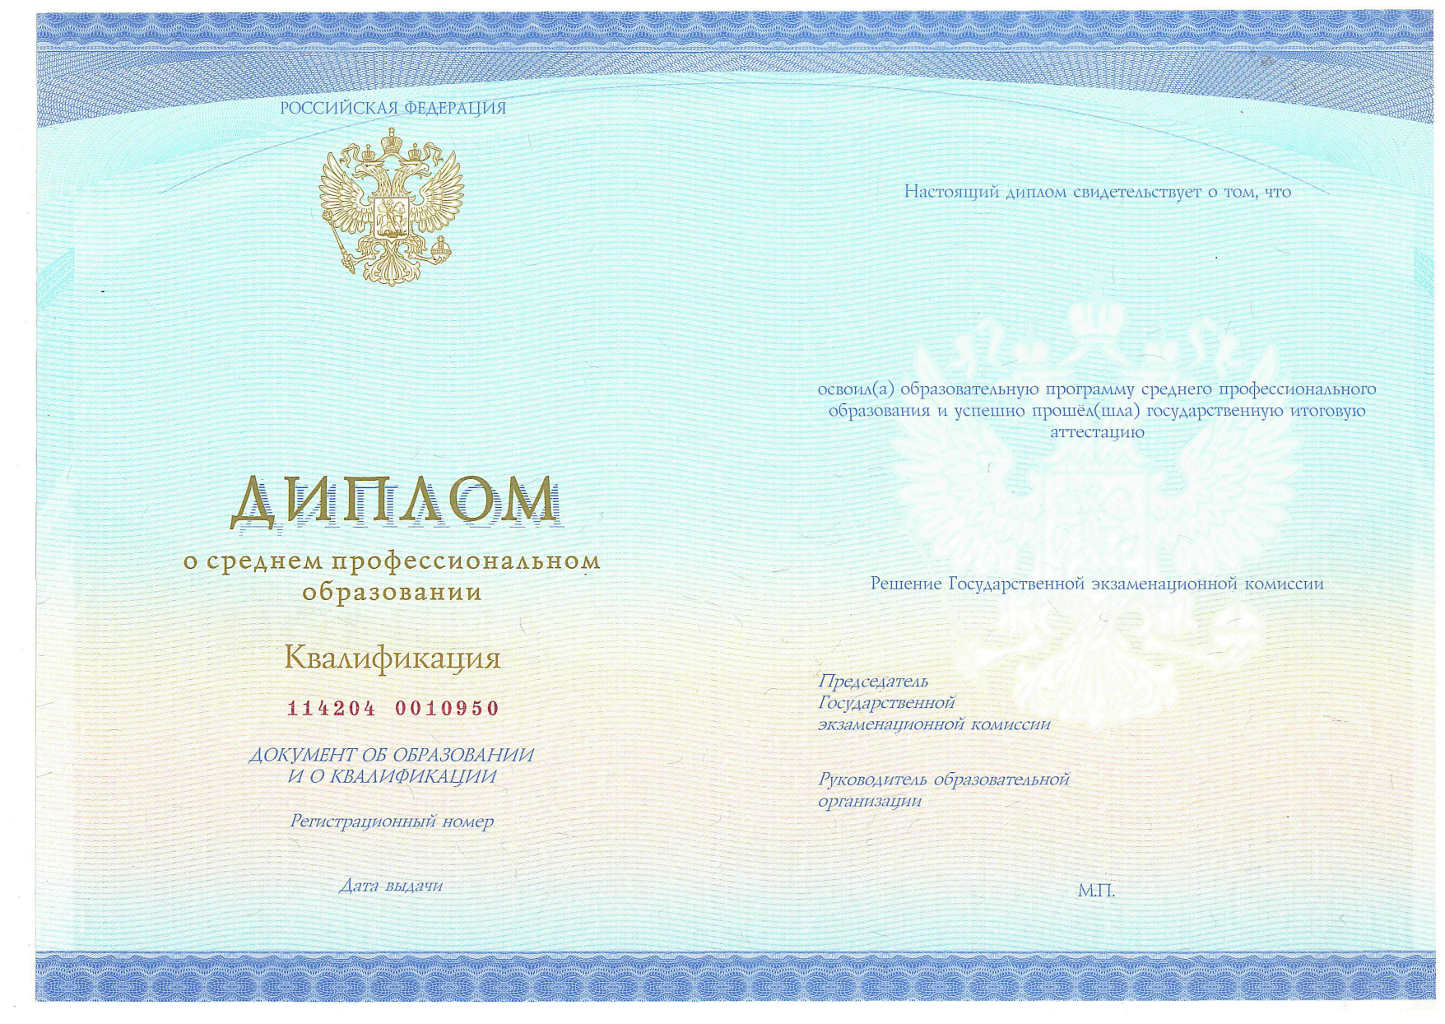
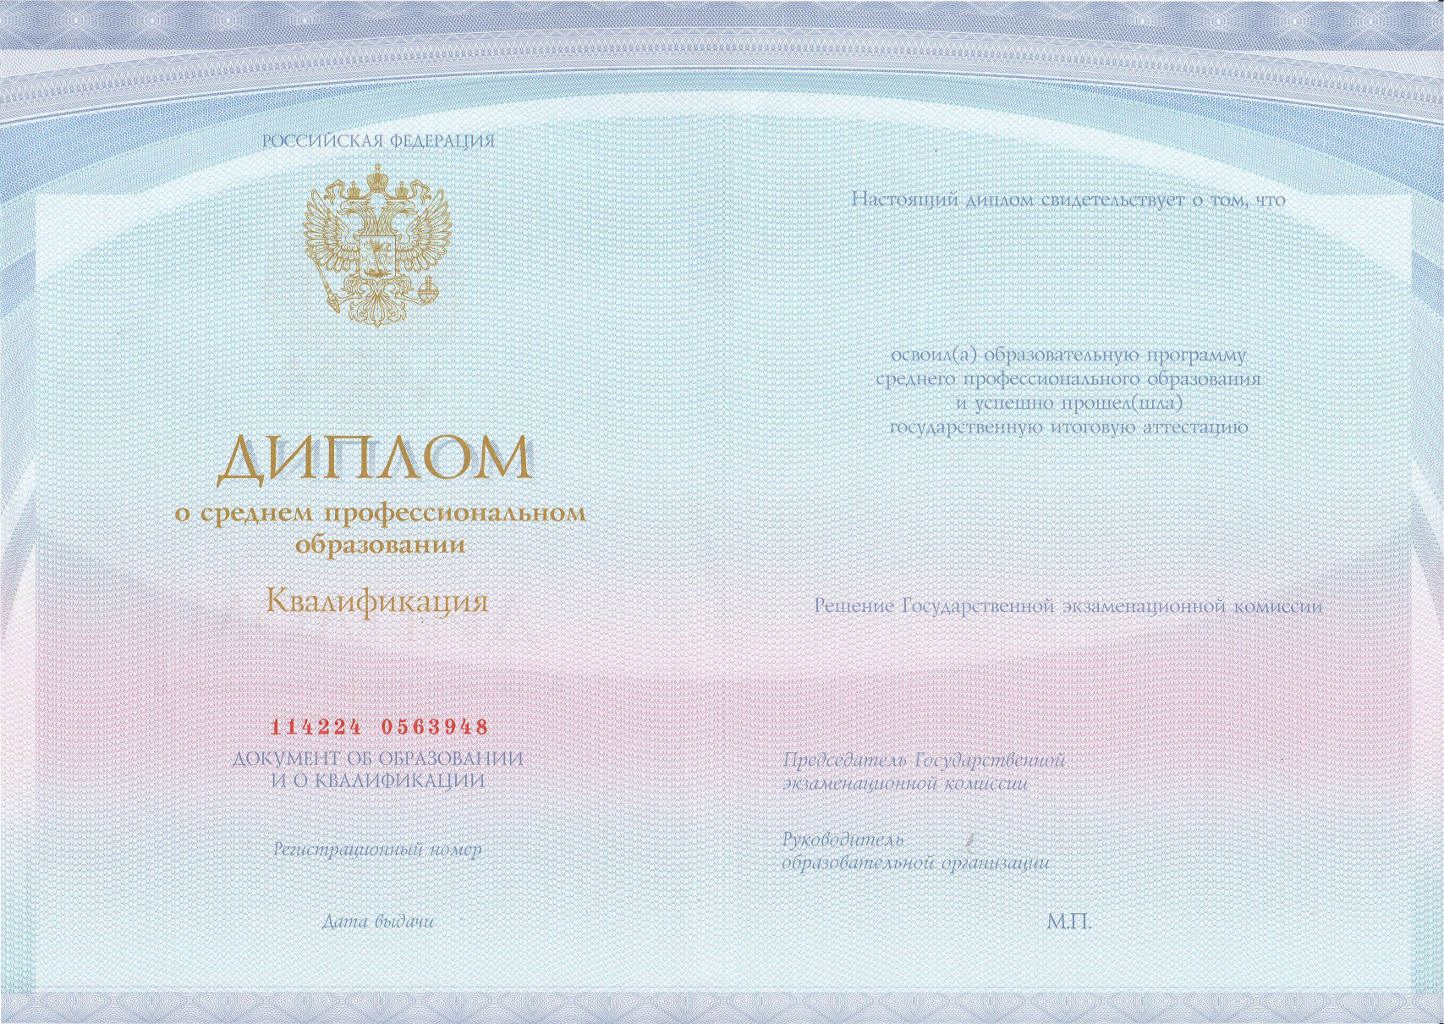
Немного исправлена разметка для бланка диплома. Изменены картинки на подложке.

diff --git a/src/main/java/ru/edu/pgtk/weducation/reports/DiplomeBlanksEJB.java b/src/main/java/ru/edu/pgtk/weducation/reports/DiplomeBlanksEJB.java
@@ -213,7 +213,7 @@ public class DiplomeBlanksEJB {
       String sclName = scl.getFullName() + "\n" + scl.getPlace();
       // Корректируем надпись с учетом дубликата
       if (isDuplicate) {
-        sclName = sclName + "\n\n" + "ДУБЛИКАТ";
+        sclName = sclName + "\n" + "ДУБЛИКАТ";
       }
       String comissionDate = "от " + Utils.getDateString(card.getComissionDate()) + " года";
       String diplomeDate = Utils.getDateString(card.getDiplomeDate()) + " года";
@@ -277,10 +277,10 @@ public class DiplomeBlanksEJB {
       firstTableCell.setBorder(PdfPCell.NO_BORDER);
 
       // Отступ от верхнего края страницы
-      firstTableCell.addElement(wrapElement(new Phrase(" ", regularFont), getPt(45)));
+      firstTableCell.addElement(wrapElement(new Phrase(" ", regularFont), getPt(42)));
       // Наименование учебного заведения
 //      firstTableCell.addElement(wrapElement(getParagraph(sclName, regularFont, Paragraph.ALIGN_CENTER), 188));
-      firstTableCell.addElement(wrapElement(getParagraph(sclName, regularFont, Paragraph.ALIGN_CENTER), getPt(60)));
+      firstTableCell.addElement(wrapElement(getParagraph(sclName, regularFont, Paragraph.ALIGN_CENTER), getPt(63)));
       // Квалификация
 //      firstTableCell.addElement(wrapElement(getParagraph(spc.getKvalification(), regularFont, Paragraph.ALIGN_CENTER), 97));
       firstTableCell.addElement(wrapElement(getParagraph(spc.getKvalification(), regularFont, Paragraph.ALIGN_CENTER), getPt(40)));

diff --git a/src/main/java/ru/edu/pgtk/weducation/jsf/StudyCardsMB.java b/src/main/java/ru/edu/pgtk/weducation/jsf/StudyCardsMB.java
@@ -111,7 +111,6 @@ public class StudyCardsMB extends GenericBean<StudyCard> implements Serializable
   }
 
   public void printReference() {
-    System.out.println();
     StringBuilder fileName = new StringBuilder("reference-");
     fileName.append(item.getId()).append(".pdf");
     // Get the FacesContext
